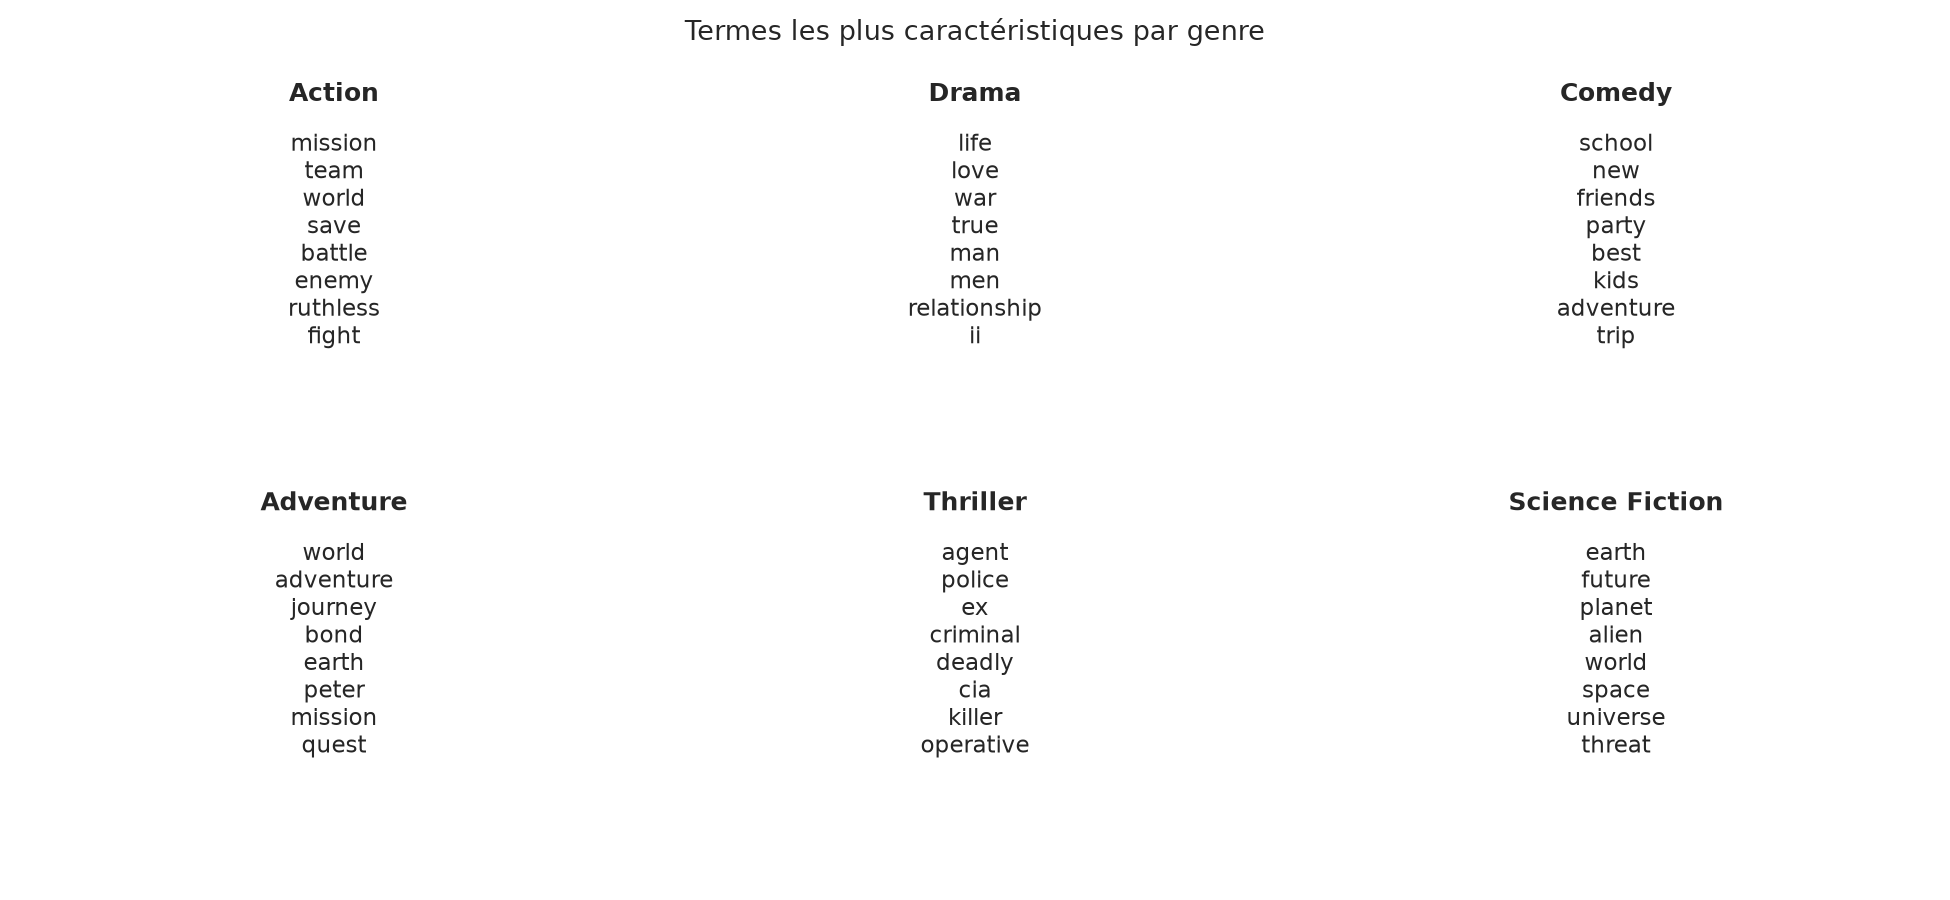
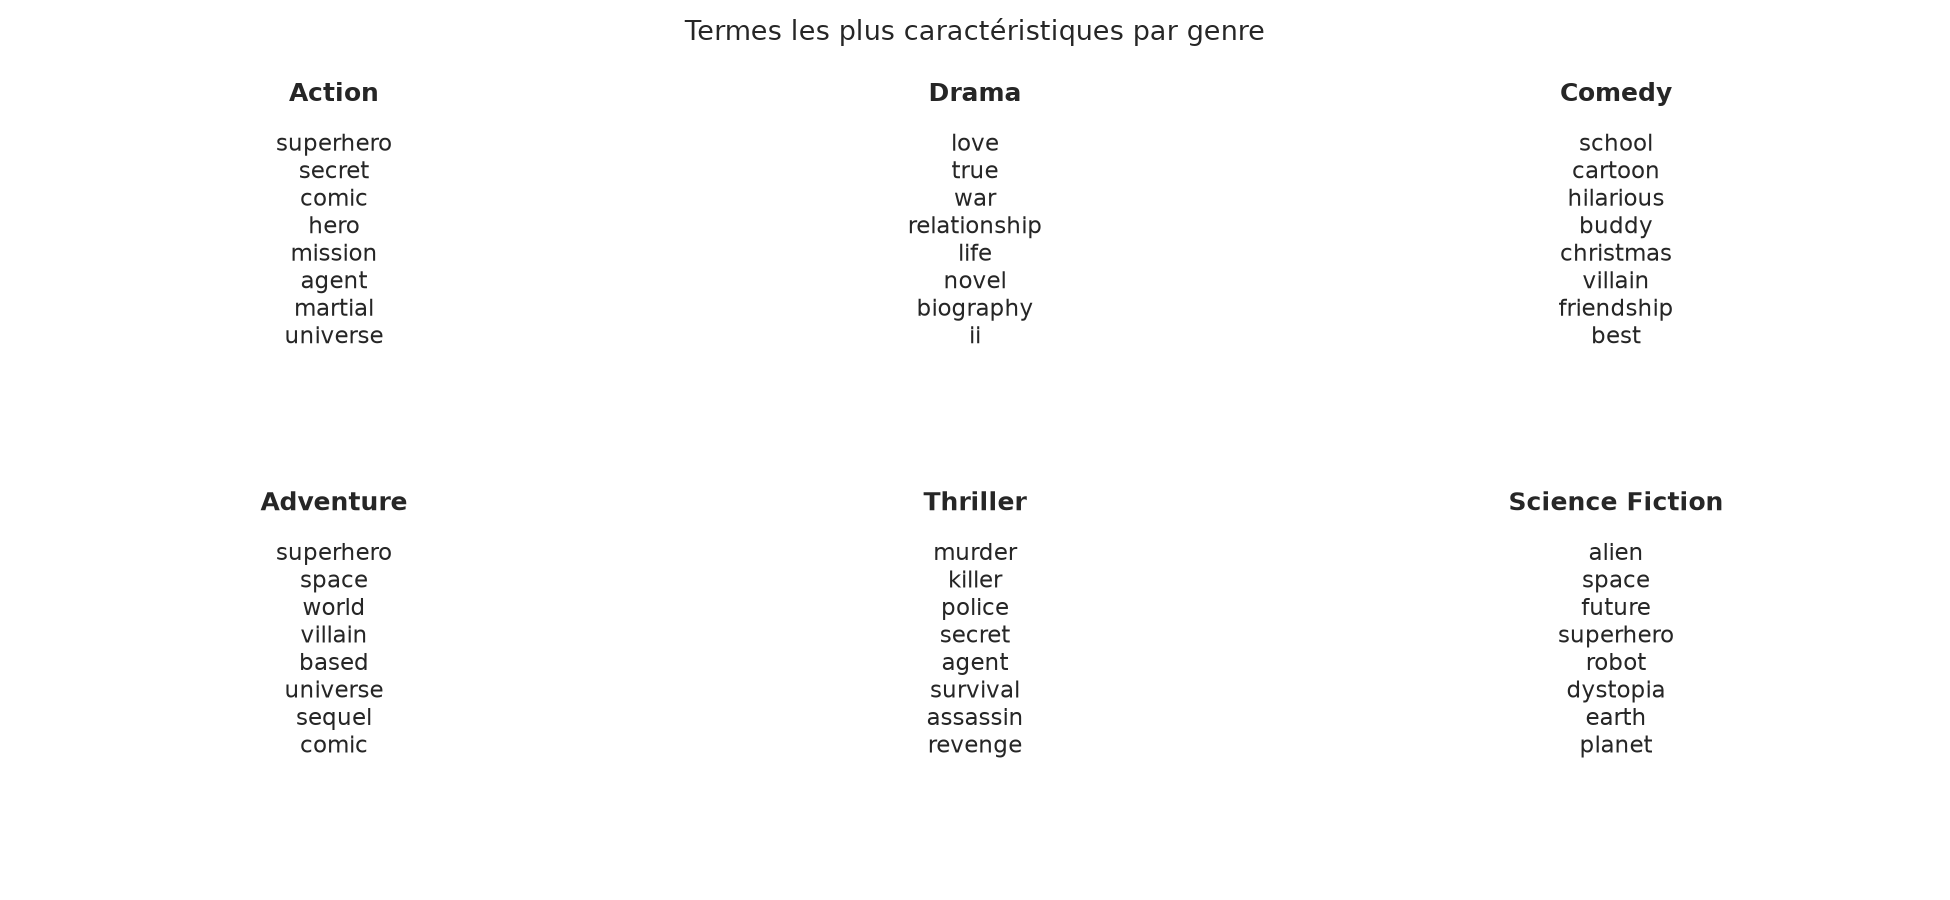
definir le dag

diff --git a/airflow/dags/movie_pipeline_dag.py b/airflow/dags/movie_pipeline_dag.py
@@ -1,0 +1,25 @@
+"""DAG : Extraction -> Nettoyage -> Features -> MongoDB -> NLP -> ML (classification, clustering)."""
+from datetime import datetime, timedelta
+
+try:
+    from airflow.providers.standard.operators.python import PythonOperator
+    from airflow.sdk import DAG
+except ImportError:  
+    from airflow import DAG
+    from airflow.operators.python import PythonOperator
+
+from src.pipeline import STAGES, run_stage  
+
+with DAG(
+    dag_id="movie_pipeline",
+    description="Pipeline films TMDB : extraction, nettoyage, features, MongoDB, NLP, modèles",
+    start_date=datetime(2026, 1, 1),
+    schedule="@weekly",
+    catchup=False,
+    max_active_runs=1,
+    default_args={"retries": 1, "retry_delay": timedelta(minutes=2)},
+    tags=["movies"],
+) as dag:
+    tasks = [PythonOperator(task_id=name, python_callable=run_stage, op_args=[name]) for name in STAGES]
+    for upstream, downstream in zip(tasks, tasks[1:]):
+        upstream >> downstream   

diff --git a/reports/tfidf_report.md b/reports/tfidf_report.md
@@ -13,48 +13,48 @@ min_df=2, max_df=0.8. La cohérence mesure le chevauchement de genres (Jaccard) 
 
 | ngram_min | ngram_max | max_features | vocab_size | nnz_per_doc | sparsity_pct | size_mb | genre_coherence | fit_seconds |
 |---|---|---|---|---|---|---|---|---|
-| 1 | 1 | 500 | 500 | 9.3 | 98.13 | 0.23 | 0.254 | 0.06 |
-| 1 | 1 | 1000 | 1000 | 12.3 | 98.77 | 0.3 | 0.2743 | 0.06 |
-| 1 | 1 | 2000 | 2000 | 15.6 | 99.22 | 0.38 | 0.2922 | 0.06 |
-| 1 | 1 | 5000 | 5000 | 20.0 | 99.6 | 0.49 | 0.3111 | 0.06 |
-| 1 | 1 |  | 5484 | 20.5 | 99.63 | 0.5 | 0.3145 | 0.06 |
-| 1 | 2 | 500 | 500 | 9.4 | 98.11 | 0.23 | 0.2483 | 0.15 |
-| 1 | 2 | 1000 | 1000 | 12.4 | 98.76 | 0.31 | 0.2715 | 0.15 |
-| 1 | 2 | 2000 | 2000 | 15.9 | 99.2 | 0.39 | 0.2878 | 0.15 |
-| 1 | 2 | 5000 | 5000 | 20.8 | 99.58 | 0.51 | 0.305 | 0.15 |
-| 1 | 2 |  | 7536 | 23.3 | 99.69 | 0.57 | 0.3138 | 0.1 |
-| 1 | 3 | 500 | 500 | 9.4 | 98.11 | 0.23 | 0.2492 | 0.26 |
-| 1 | 3 | 1000 | 1000 | 12.5 | 98.75 | 0.31 | 0.2696 | 0.25 |
-| 1 | 3 | 2000 | 2000 | 16.0 | 99.2 | 0.39 | 0.287 | 0.25 |
-| 1 | 3 | 5000 | 5000 | 20.8 | 99.58 | 0.51 | 0.3042 | 0.25 |
-| 1 | 3 |  | 7721 | 23.6 | 99.69 | 0.57 | 0.3139 | 0.14 |
+| 1 | 1 | 500 | 500 | 17.2 | 96.55 | 0.42 | 0.3859 | 0.1 |
+| 1 | 1 | 1000 | 1000 | 22.7 | 97.73 | 0.55 | 0.402 | 0.12 |
+| 1 | 1 | 2000 | 2000 | 28.5 | 98.58 | 0.69 | 0.411 | 0.1 |
+| 1 | 1 | 5000 | 5000 | 35.5 | 99.29 | 0.86 | 0.416 | 0.1 |
+| 1 | 1 |  | 7377 | 38.0 | 99.48 | 0.92 | 0.4169 | 0.1 |
+| 1 | 2 | 500 | 500 | 18.1 | 96.37 | 0.44 | 0.3844 | 0.48 |
+| 1 | 2 | 1000 | 1000 | 24.2 | 97.58 | 0.59 | 0.4002 | 0.47 |
+| 1 | 2 | 2000 | 2000 | 30.7 | 98.46 | 0.75 | 0.4077 | 0.45 |
+| 1 | 2 | 5000 | 5000 | 39.6 | 99.21 | 0.96 | 0.4127 | 0.38 |
+| 1 | 2 |  | 13565 | 49.8 | 99.63 | 1.2 | 0.4178 | 0.21 |
+| 1 | 3 | 500 | 500 | 18.4 | 96.32 | 0.45 | 0.3818 | 0.8 |
+| 1 | 3 | 1000 | 1000 | 24.6 | 97.54 | 0.6 | 0.3956 | 0.72 |
+| 1 | 3 | 2000 | 2000 | 31.4 | 98.43 | 0.76 | 0.4066 | 0.68 |
+| 1 | 3 | 5000 | 5000 | 40.5 | 99.19 | 0.98 | 0.4132 | 0.63 |
+| 1 | 3 |  | 15508 | 53.2 | 99.66 | 1.28 | 0.4161 | 0.33 |
 
 **Lecture :**
-- Unigrammes -> bigrammes : dégrade la cohérence (0.289 -> 0.285 en moyenne sur les max_features).
-- Bigrammes -> trigrammes : ne change pratiquement pas la cohérence (0.285 -> 0.285).
-- max_features de 500 à 5000 : améliore la cohérence (0.251 -> 0.307), au prix d'une matrice plus grande et d'un calcul plus long.
+- Unigrammes -> bigrammes : ne change pratiquement pas la cohérence (0.406 -> 0.405 en moyenne sur les max_features).
+- Bigrammes -> trigrammes : ne change pratiquement pas la cohérence (0.405 -> 0.403).
+- max_features de 500 à 5000 : améliore la cohérence (0.384 -> 0.414), au prix d'une matrice plus grande et d'un calcul plus long.
 
 ## 3. Configuration retenue et matrice finale
 
 - `max_features=5000`, `ngram_range=(1, 1)`, `min_df=2`, `max_df=0.8`, `norm='l2'`
 - Dimensions : **2000 films x 5000 termes**
-- Valeurs non nulles : 39935 -> matrice creuse à **99.6 %** de zéros
-- En moyenne 20.0 termes actifs par film sur 5000
-- Mémoire (format creux) : 0.49 Mo ; en format dense elle ferait environ 80 Mo
+- Valeurs non nulles : 70921 -> matrice creuse à **99.29 %** de zéros
+- En moyenne 35.5 termes actifs par film sur 5000
+- Mémoire (format creux) : 0.86 Mo ; en format dense elle ferait environ 80 Mo
 - Vocabulaire : 5000 unigrammes et 0 n-grammes de plus d'un mot
-- Cohérence des genres : 0.311 (hasard : 0.153, soit x2.0)
+- Cohérence des genres : 0.416 (hasard : 0.153, soit x2.7)
 
 ## 4. Termes représentatifs
 
 ### Les plus élevés en moyenne
 
-`world`, `new`, `life`, `family`, `young`, `man`, `home`, `mysterious`, `love`, `finds`, `war`, `time`, `old`, `group`, `lives`, `years`, `friends`, `woman`, `help`, `father`
+`based`, `new`, `family`, `world`, `relationship`, `life`, `novel`, `book`, `sequel`, `love`, `war`, `young`, `man`, `secret`, `death`, `school`, `woman`, `father`, `murder`, `alien`
 
 ### Les plus caractéristiques par genre (écart à la moyenne globale)
 
-- **Action** : mission, team, world, save, battle, enemy, ruthless, fight
-- **Drama** : life, love, war, true, man, men, relationship, ii
-- **Comedy** : school, new, friends, party, best, kids, adventure, trip
-- **Adventure** : world, adventure, journey, bond, earth, peter, mission, quest
-- **Thriller** : agent, police, ex, criminal, deadly, cia, killer, operative
-- **Science Fiction** : earth, future, planet, alien, world, space, universe, threat
+- **Action** : superhero, secret, comic, hero, mission, agent, martial, universe
+- **Drama** : love, true, war, relationship, life, novel, biography, ii
+- **Comedy** : school, cartoon, hilarious, buddy, christmas, villain, friendship, best
+- **Adventure** : superhero, space, world, villain, based, universe, sequel, comic
+- **Thriller** : murder, killer, police, secret, agent, survival, assassin, revenge
+- **Science Fiction** : alien, space, future, superhero, robot, dystopia, earth, planet

diff --git a/reports/classification_report.md b/reports/classification_report.md
@@ -1,0 +1,42 @@
+# Rapport de classification (Jour 5)
+
+## 1. Cible
+
+`high_engagement` = 1 si `vote_count` >= 4000. Seuil fixe, défini avant le split (pas recalculé sur le train/test).
+- Films : 2000 | positifs : 51.2 % | train : 1600 | test : 400 (split stratifié)
+- Features : 10 numériques, 22 binaires, 2 catégorielles + TF-IDF de `overview_clean`. `vote_count`, `popularity`, `vote_average`, `revenue` exclues.
+
+## 2. Résultats sur le jeu de test
+
+| model | accuracy | precision | recall | f1 | roc_auc | train_accuracy |
+|---|---|---|---|---|---|---|
+| Baseline (classe majoritaire) | 0.5125 | 0.5125 | 1.0 | 0.6777 | 0.5 | 0.5119 |
+| Logistic Regression | 0.7225 | 0.7098 | 0.7756 | 0.7413 | 0.7982 | 0.8538 |
+| Random Forest | 0.81 | 0.7945 | 0.8488 | 0.8208 | 0.8807 | 1.0 |
+| Linear SVM | 0.685 | 0.682 | 0.722 | 0.7014 | 0.7575 | 0.995 |
+
+**Lecture :**
+- Meilleur modèle selon le ROC-AUC : **Random Forest** (AUC 0.881, F1 0.821, accuracy 0.810).
+- La baseline (toujours la classe majoritaire) obtient 0.512 d'accuracy : le meilleur modèle gagne 29.8 points de pourcentage.
+- **Logistic Regression** : accuracy train 0.854 contre test 0.723 (écart 0.13) : signe de surapprentissage.
+- **Random Forest** : accuracy train 1.000 contre test 0.810 (écart 0.19) : signe de surapprentissage.
+- **Linear SVM** : accuracy train 0.995 contre test 0.685 (écart 0.31) : signe de surapprentissage.
+- Matrice de confusion de Random Forest : 174 vrais positifs, 150 vrais négatifs, 45 faux positifs, 31 faux négatifs. Il se trompe plus souvent en annonçant un fort engagement à tort (précision < rappel).
+- Un seul découpage train/test donne une estimation bruitée : la validation croisée du Jour 6 la consolidera.
+
+## 3. Démonstration de Data Leakage
+
+Même pipeline, mais en ajoutant `popularity`, `vote_average` et `revenue` aux features :
+
+| modèle | AUC sans proxys | AUC avec proxys | F1 sans proxys | F1 avec proxys | gain AUC |
+|---|---|---|---|---|---|
+| Logistic Regression | 0.7982 | 0.8643 | 0.7413 | 0.7838 | 0.0661 |
+| Random Forest | 0.8807 | 0.9281 | 0.8208 | 0.8565 | 0.0474 |
+| Linear SVM | 0.7575 | 0.8397 | 0.7014 | 0.7925 | 0.0822 |
+
+Gain moyen d'AUC : +0.065. Le saut est net : ces variables contiennent déjà l'information sur le nombre de votes, le score devient artificiellement bon et ne reflète plus la capacité à prédire l'engagement à partir du contenu du film. Elles sont donc exclues du modèle final.
+
+## 4. Variables influentes
+
+Voir `reports/figures/17_feature_importance.png` (coefficients de la régression logistique et importances du Random Forest).
+
